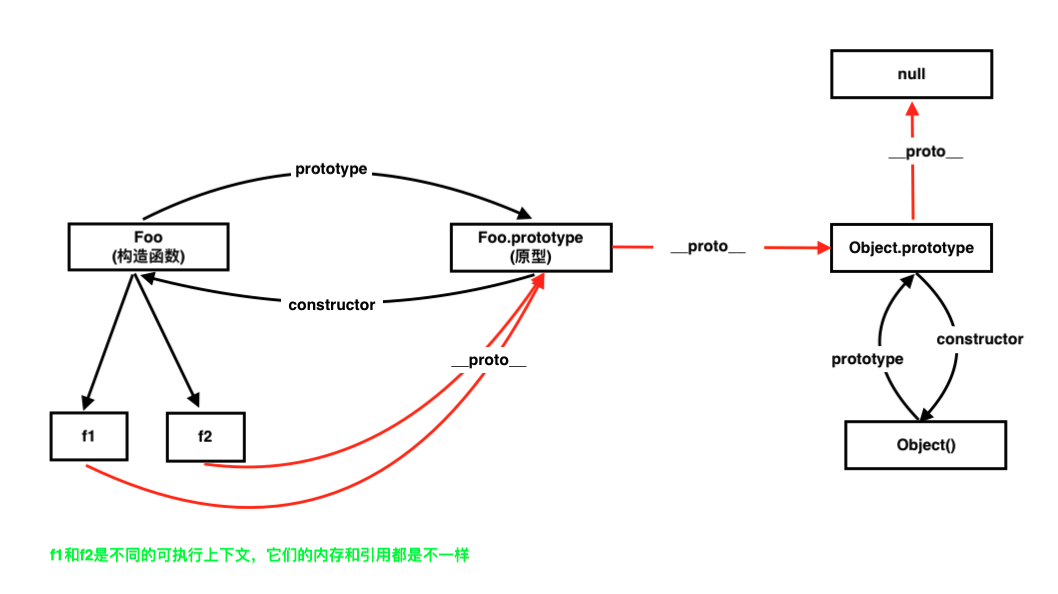
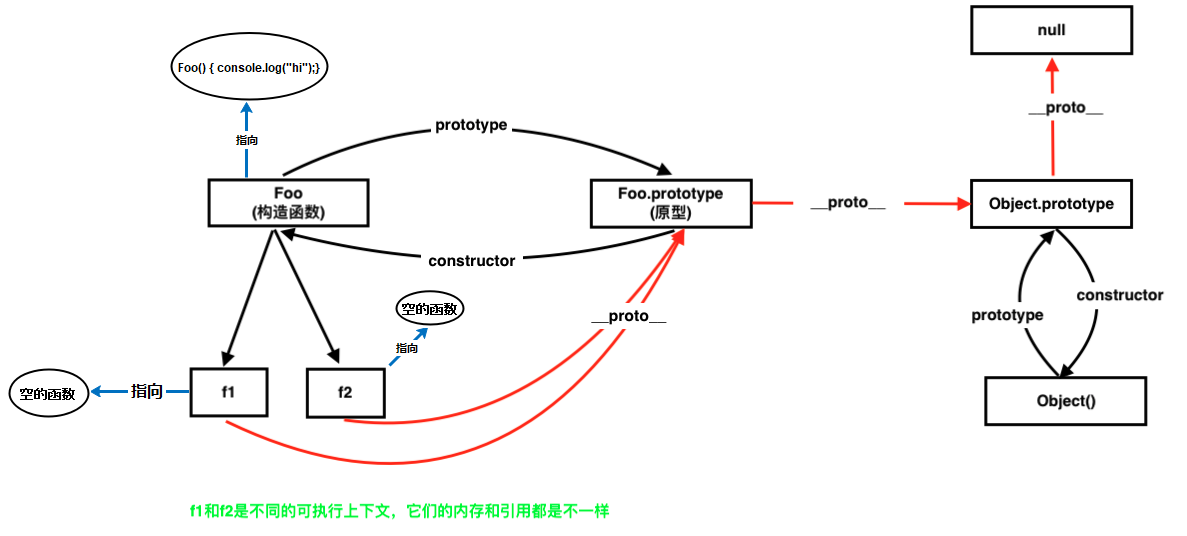
update js new img

diff --git a/_posts/2019-04-25-js-common.md b/_posts/2019-04-25-js-common.md
@@ -78,6 +78,7 @@ console.log(items); // ["e","f"]
 示例代码如下：
 ```js
 function Foo() {
+    console.log("hi");
 }
 
 obj = {
@@ -107,7 +108,7 @@ console.log(obj.__proto__); // Object
 
 ```js
 function Foo() {
-
+    console.log("hi");
 }
 
 Foo.prototype.name = "mei";
